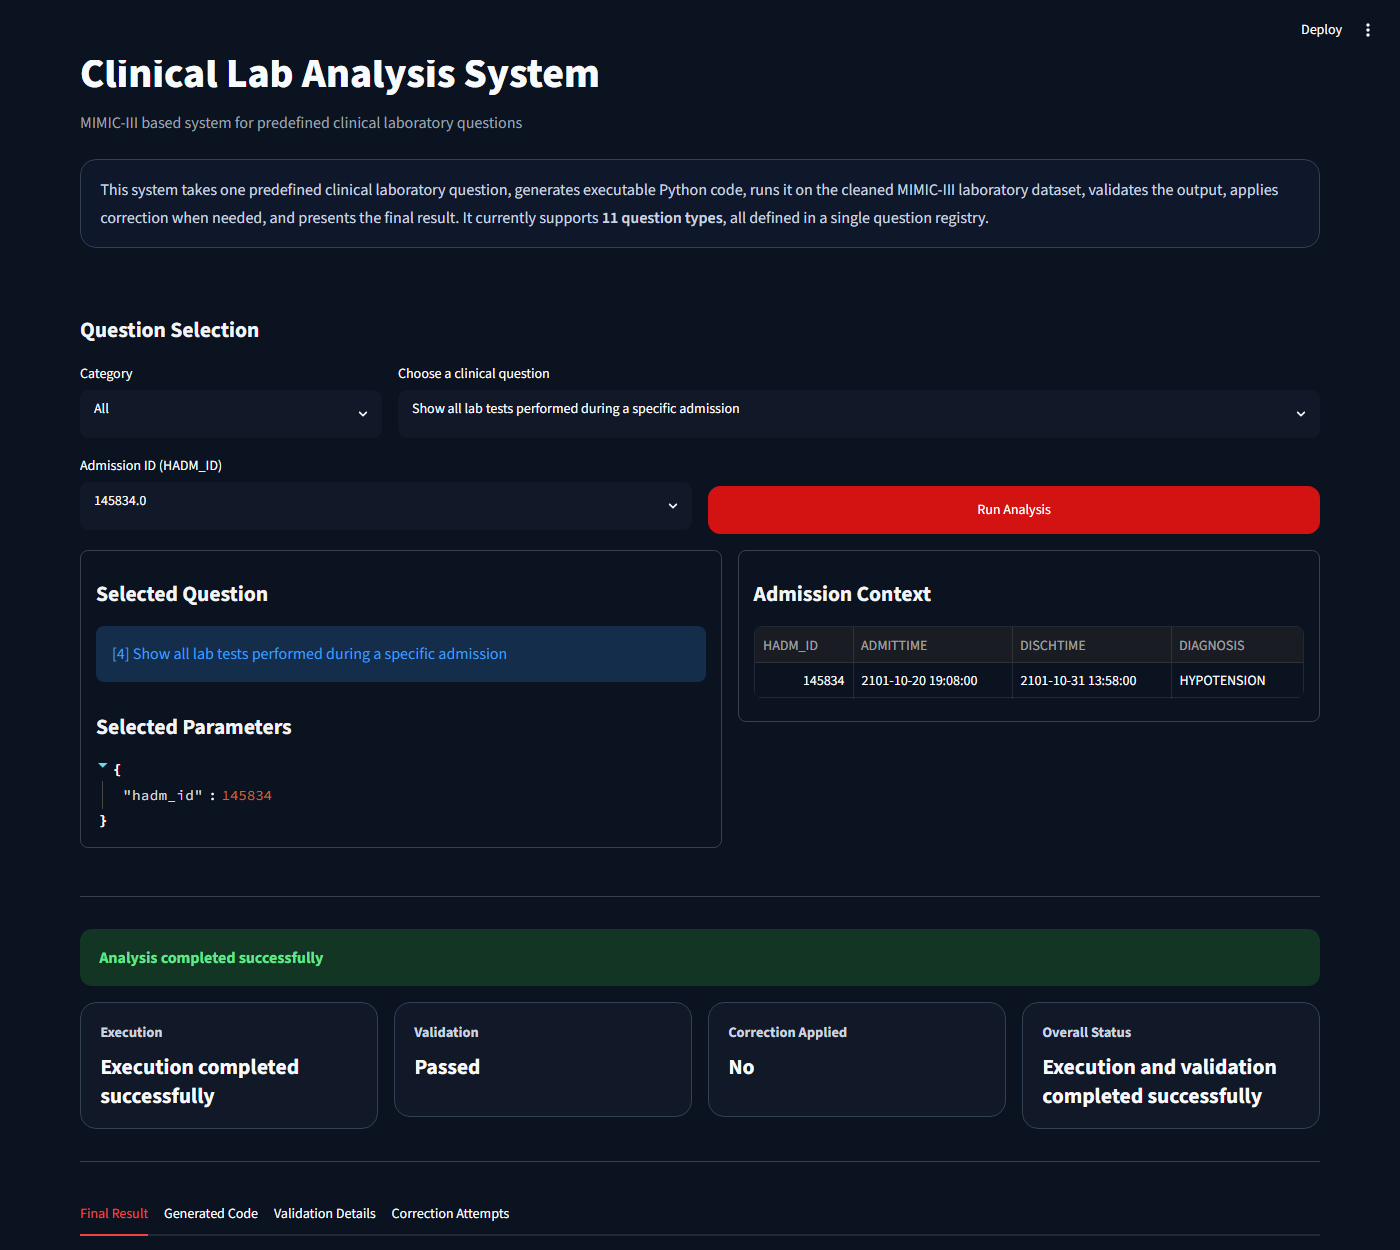
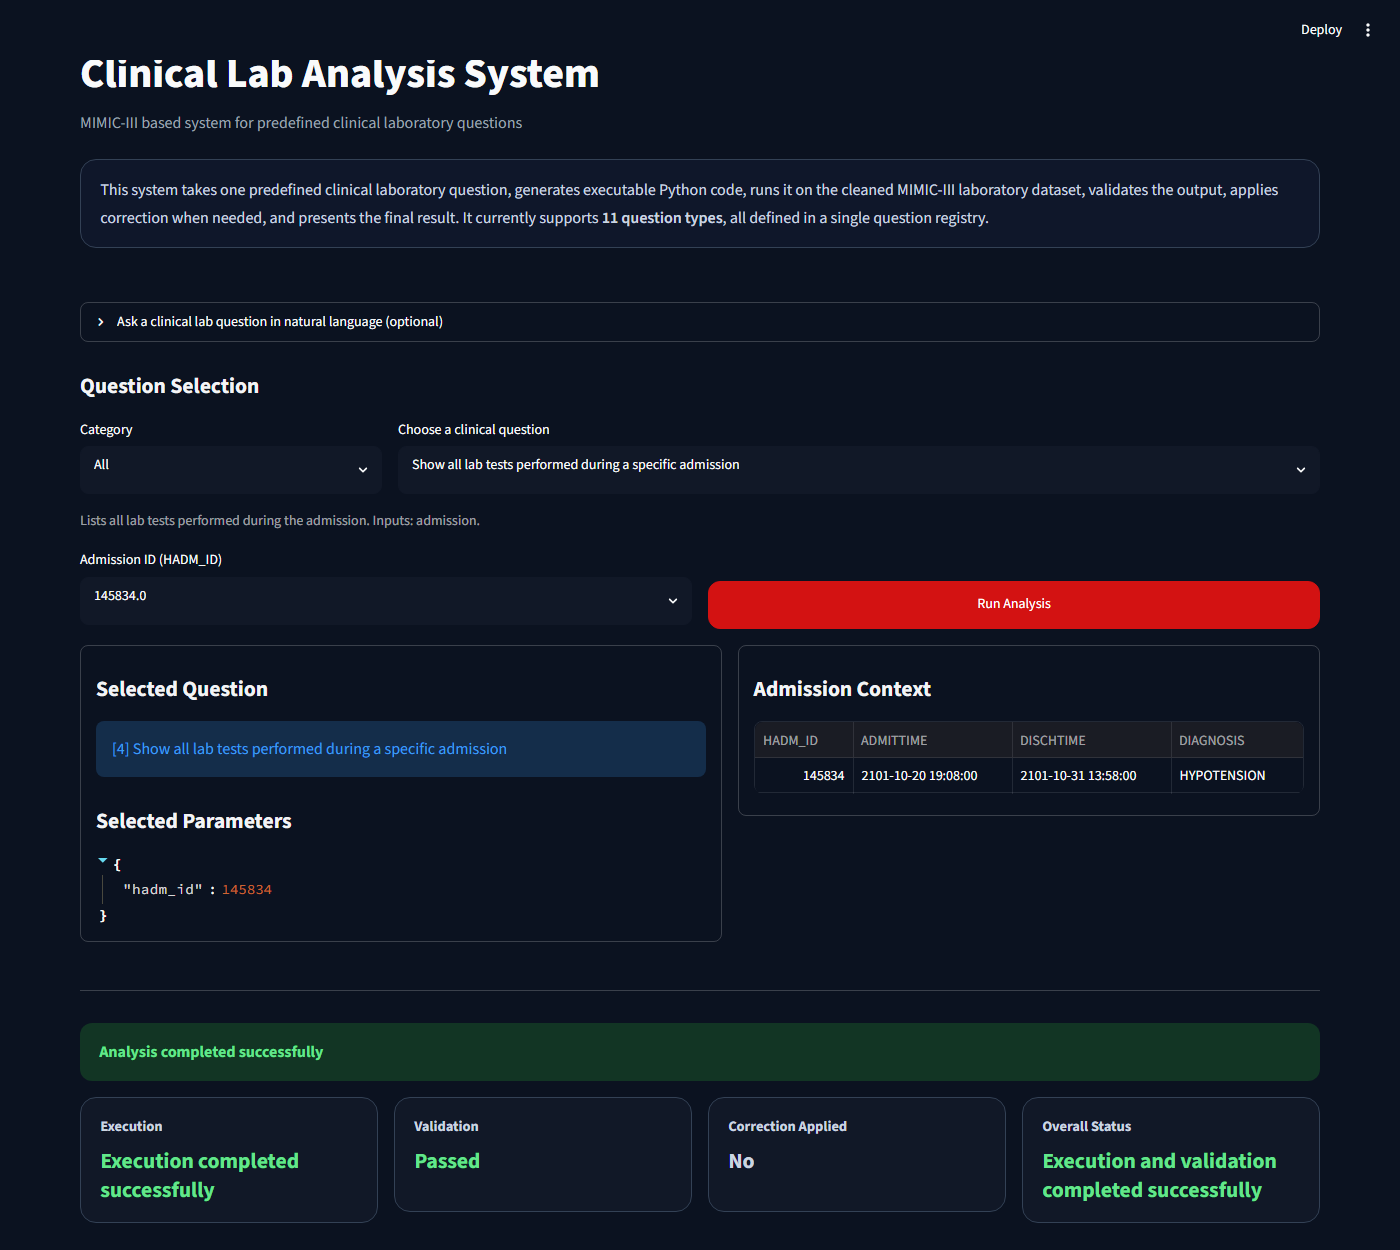
Improve UI: result metrics, trend chart, color-coded status, help caption
Add per-result summary metric cards, an Altair trend chart with axis labels and lab units (questions 3 and 10), color-coded status indicators, and a one-line help caption under each question. Regenerate the per-question screenshots. 72 tests pass at ~94% coverage.

Changed region(s): [[0.0307, 0.2496, 0.9521, 0.9984], [0.8293, 0.5928, 0.9214, 0.624], [0.7371, 0.5928, 0.7986, 0.624]]

diff --git a/app.py b/app.py
@@ -1,5 +1,6 @@
 import inspect
 
+import altair as alt
 import pandas as pd
 import streamlit as st
 
@@ -142,6 +143,95 @@ button[data-baseweb="tab"] {
 
 merged_data = data_prep.merged_data
 
+QUESTION_HELP = {
+    1: "Lists every abnormal-flagged lab result for the admission.",
+    2: "Returns the most recent value of one lab test.",
+    3: "Shows how one lab test changes over time.",
+    4: "Lists all lab tests performed during the admission.",
+    5: "Compares the first and last value of one lab test.",
+    6: "Min, max, mean and count for one lab test.",
+    7: "How many results were abnormal versus normal.",
+    8: "Abnormal-flagged readings for one specific lab test.",
+    9: "Distinct lab tests that were ever flagged abnormal, with counts.",
+    10: "Values of one lab test within a date range.",
+    11: "All admissions recorded for one patient.",
+}
+
+_PARAM_NAMES = {
+    "hadm_id": "admission",
+    "itemid": "lab test",
+    "subject_id": "patient",
+    "date_range": "date range",
+}
+
+
+# =========================
+# Render helpers
+# =========================
+def _status_box(label, value, color):
+    st.markdown(
+        f'<div class="status-box"><div class="status-label">{label}</div>'
+        f'<div class="status-value" style="color:{color}">{value}</div></div>',
+        unsafe_allow_html=True,
+    )
+
+
+def _render_metrics(spec, result):
+    if not isinstance(result, pd.DataFrame) or result.empty:
+        return
+    row = result.iloc[0]
+    if spec.id == 2:
+        cols = st.columns(2)
+        cols[0].metric("Latest value", f"{row['VALUENUM']} {row['VALUEUOM']}")
+        cols[1].metric("Measured at", str(row["CHARTTIME"]))
+    elif spec.id == 5:
+        cols = st.columns(3)
+        cols[0].metric("First value", f"{row['First Value']}")
+        cols[1].metric("Last value", f"{row['Last Value']}")
+        cols[2].metric("Difference", f"{row['Difference']}")
+    elif spec.id == 6:
+        cols = st.columns(4)
+        cols[0].metric("Count", int(row["Count"]))
+        cols[1].metric("Min", f"{row['Min']}")
+        cols[2].metric("Max", f"{row['Max']}")
+        cols[3].metric("Mean", f"{row['Mean']}")
+    elif spec.id == 7:
+        cols = st.columns(3)
+        cols[0].metric("Total tests", int(row["Total Tests"]))
+        cols[1].metric("Abnormal", int(row["Abnormal"]))
+        cols[2].metric("Normal", int(row["Normal"]))
+    else:
+        st.metric("Rows returned", len(result))
+
+
+def _render_trend_chart(spec, result):
+    if not (spec.chart and isinstance(result, pd.DataFrame) and not result.empty):
+        return
+    x_field, y_field = spec.chart["x"], spec.chart["y"]
+    if x_field not in result.columns or y_field not in result.columns:
+        return
+    data = result[[x_field, y_field]].dropna()
+    if data.empty:
+        return
+    unit = ""
+    if "VALUEUOM" in result.columns and not result["VALUEUOM"].dropna().empty:
+        unit = str(result["VALUEUOM"].dropna().iloc[0])
+    label = y_field
+    if "LABEL" in result.columns and not result["LABEL"].dropna().empty:
+        label = str(result["LABEL"].dropna().iloc[0])
+    y_title = f"{label} ({unit})" if unit else label
+    chart = (
+        alt.Chart(data)
+        .mark_line(point=True)
+        .encode(
+            x=alt.X(f"{x_field}:T", title="Time"),
+            y=alt.Y(f"{y_field}:Q", title=y_title),
+            tooltip=list(data.columns),
+        )
+        .properties(width="container", height=320, title=f"{label} over time")
+    )
+    st.altair_chart(chart)
+
 
 # =========================
 # Header
@@ -206,6 +296,9 @@ with question_col:
     )
 
 spec = questions.get_question_by_label(question_label)
+
+_inputs = ", ".join(_PARAM_NAMES.get(p, p) for p in spec.params)
+st.caption(f"{QUESTION_HELP.get(spec.id, '')}  Inputs: {_inputs}.")
 
 
 # =========================
@@ -406,32 +499,20 @@ if run_button and params_ready:
     validation_text = "Passed" if validation_passed else "Failed"
     correction_text = "Yes" if correction_applied else "No"
 
-    status_col1, status_col2, status_col3, status_col4 = st.columns(4)
+    green, red, blue, amber, grey = "#63e68b", "#f87171", "#7dd3fc", "#fbbf24", "#cbd5e1"
+    exec_color = green if "success" in str(execution_status).lower() else red
+    val_color = green if validation_passed else (blue if no_records else red)
+    overall_color = green if success else (blue if no_records else red)
 
+    status_col1, status_col2, status_col3, status_col4 = st.columns(4)
     with status_col1:
-        st.markdown(
-            f'<div class="status-box"><div class="status-label">Execution</div>'
-            f'<div class="status-value">{execution_status}</div></div>',
-            unsafe_allow_html=True,
-        )
+        _status_box("Execution", execution_status, exec_color)
     with status_col2:
-        st.markdown(
-            f'<div class="status-box"><div class="status-label">Validation</div>'
-            f'<div class="status-value">{validation_text}</div></div>',
-            unsafe_allow_html=True,
-        )
+        _status_box("Validation", validation_text, val_color)
     with status_col3:
-        st.markdown(
-            f'<div class="status-box"><div class="status-label">Correction Applied</div>'
-            f'<div class="status-value">{correction_text}</div></div>',
-            unsafe_allow_html=True,
-        )
+        _status_box("Correction Applied", correction_text, amber if correction_applied else grey)
     with status_col4:
-        st.markdown(
-            f'<div class="status-box"><div class="status-label">Overall Status</div>'
-            f'<div class="status-value">{overall_status}</div></div>',
-            unsafe_allow_html=True,
-        )
+        _status_box("Overall Status", overall_status, overall_color)
 
     st.divider()
 
@@ -442,20 +523,8 @@ if run_button and params_ready:
     with result_tab:
         st.subheader("Final Result")
 
-        if (
-            spec.chart
-            and isinstance(result, pd.DataFrame)
-            and not result.empty
-            and spec.chart["x"] in result.columns
-            and spec.chart["y"] in result.columns
-        ):
-            chart_df = (
-                result[[spec.chart["x"], spec.chart["y"]]]
-                .dropna()
-                .set_index(spec.chart["x"])
-            )
-            if not chart_df.empty:
-                st.line_chart(chart_df)
+        _render_metrics(spec, result)
+        _render_trend_chart(spec, result)
 
         if isinstance(result, pd.DataFrame) and not result.empty:
             st.dataframe(result, width="stretch", hide_index=True)

diff --git a/docs/decisions/decision-log.md b/docs/decisions/decision-log.md
@@ -5,6 +5,12 @@ Newest entries at the top.
 
 ## 2026-06-13
 
+### UI improvements
+- Added a one-line help caption under each selected question (what it returns + the inputs it needs).
+- Richer result presentation: summary metric cards (latest value / first-vs-last / min-max-mean / abnormal counts / row count), an Altair trend chart with axis labels and lab units (questions 3 and 10), and color-coded status indicators (green pass / red fail / blue no-records).
+- A sidebar and a header badge row were tried but removed as unnecessary per review.
+- All 72 tests still pass (~94% coverage); regenerated the per-question screenshots.
+
 ### Controlled natural-language routing (no LLM in MVP)
 - Added `question_router.py`: a rule-based/keyword router that maps a free-text clinical lab question to exactly one of the 11 supported question templates and extracts its parameters (admission, lab test, patient, dates). It only selects predefined questions and never generates free-form code.
 - Added an optional "Ask in natural language" box to the Streamlit UI; a matched query drives the same pipeline as the dropdown (e.g. "Show hematocrit trend for admission 107521").
